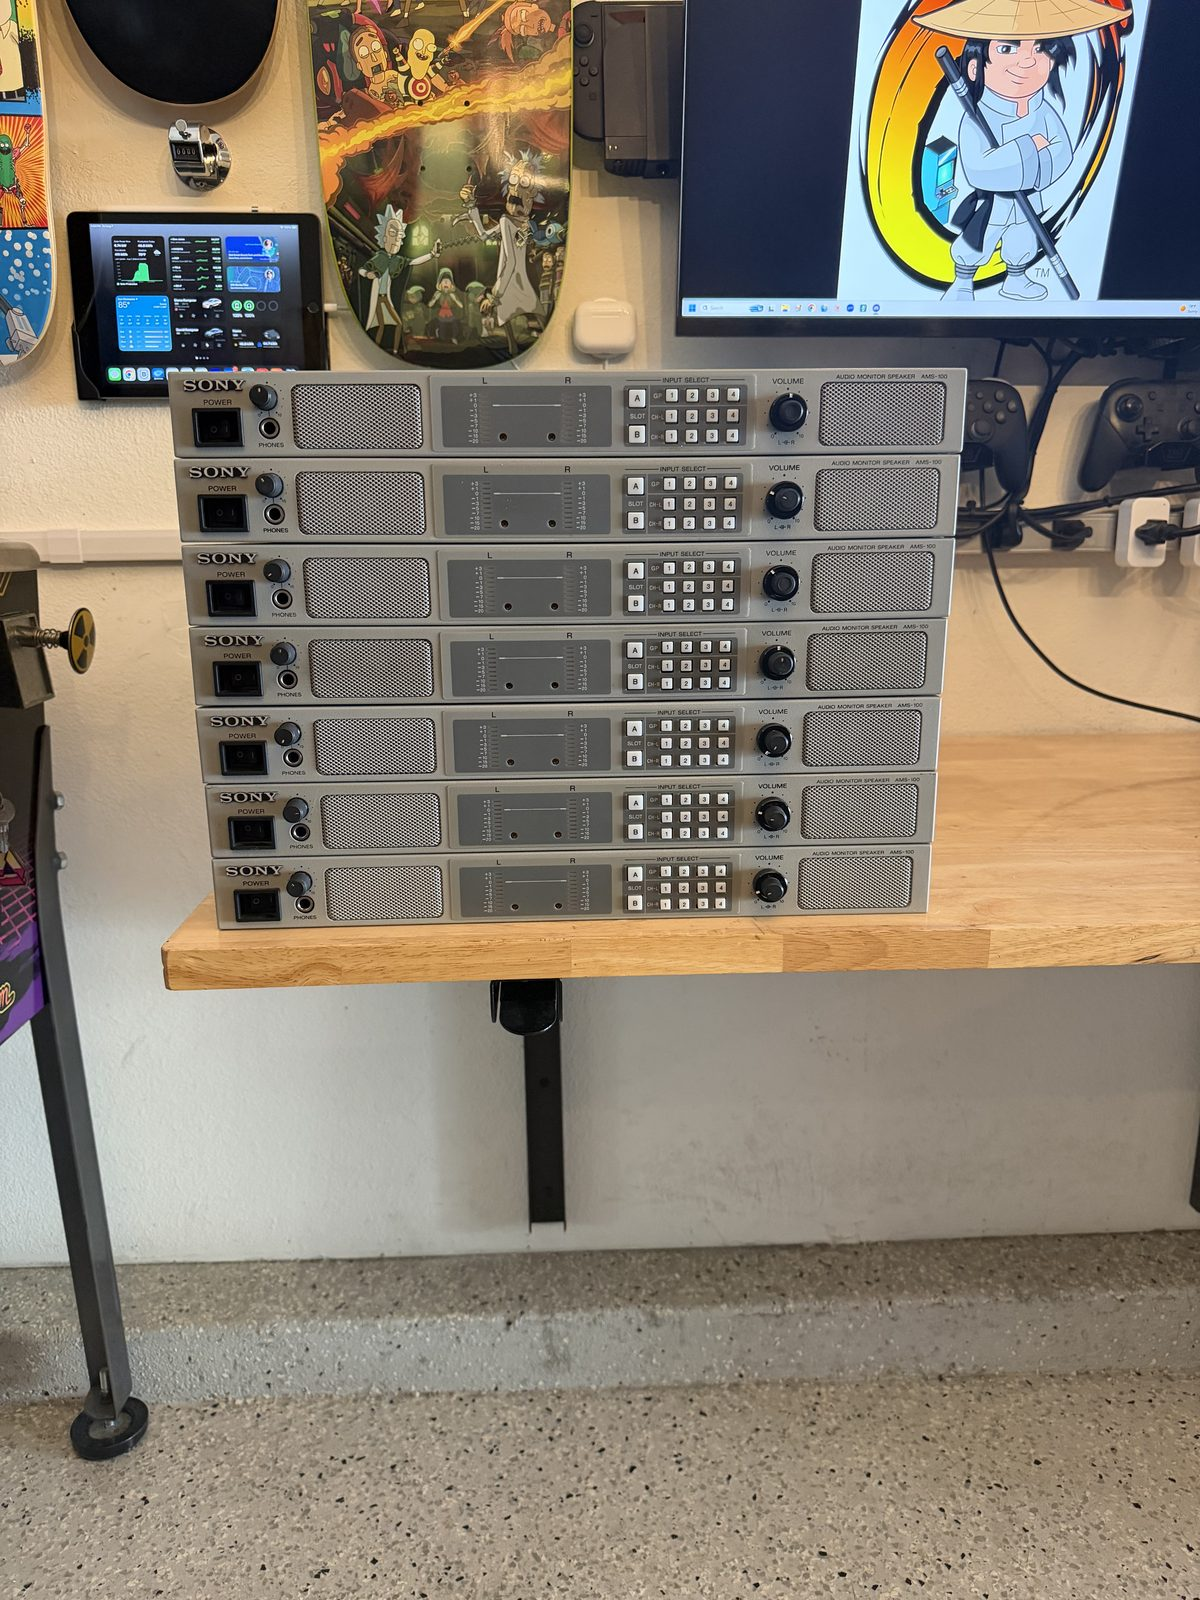
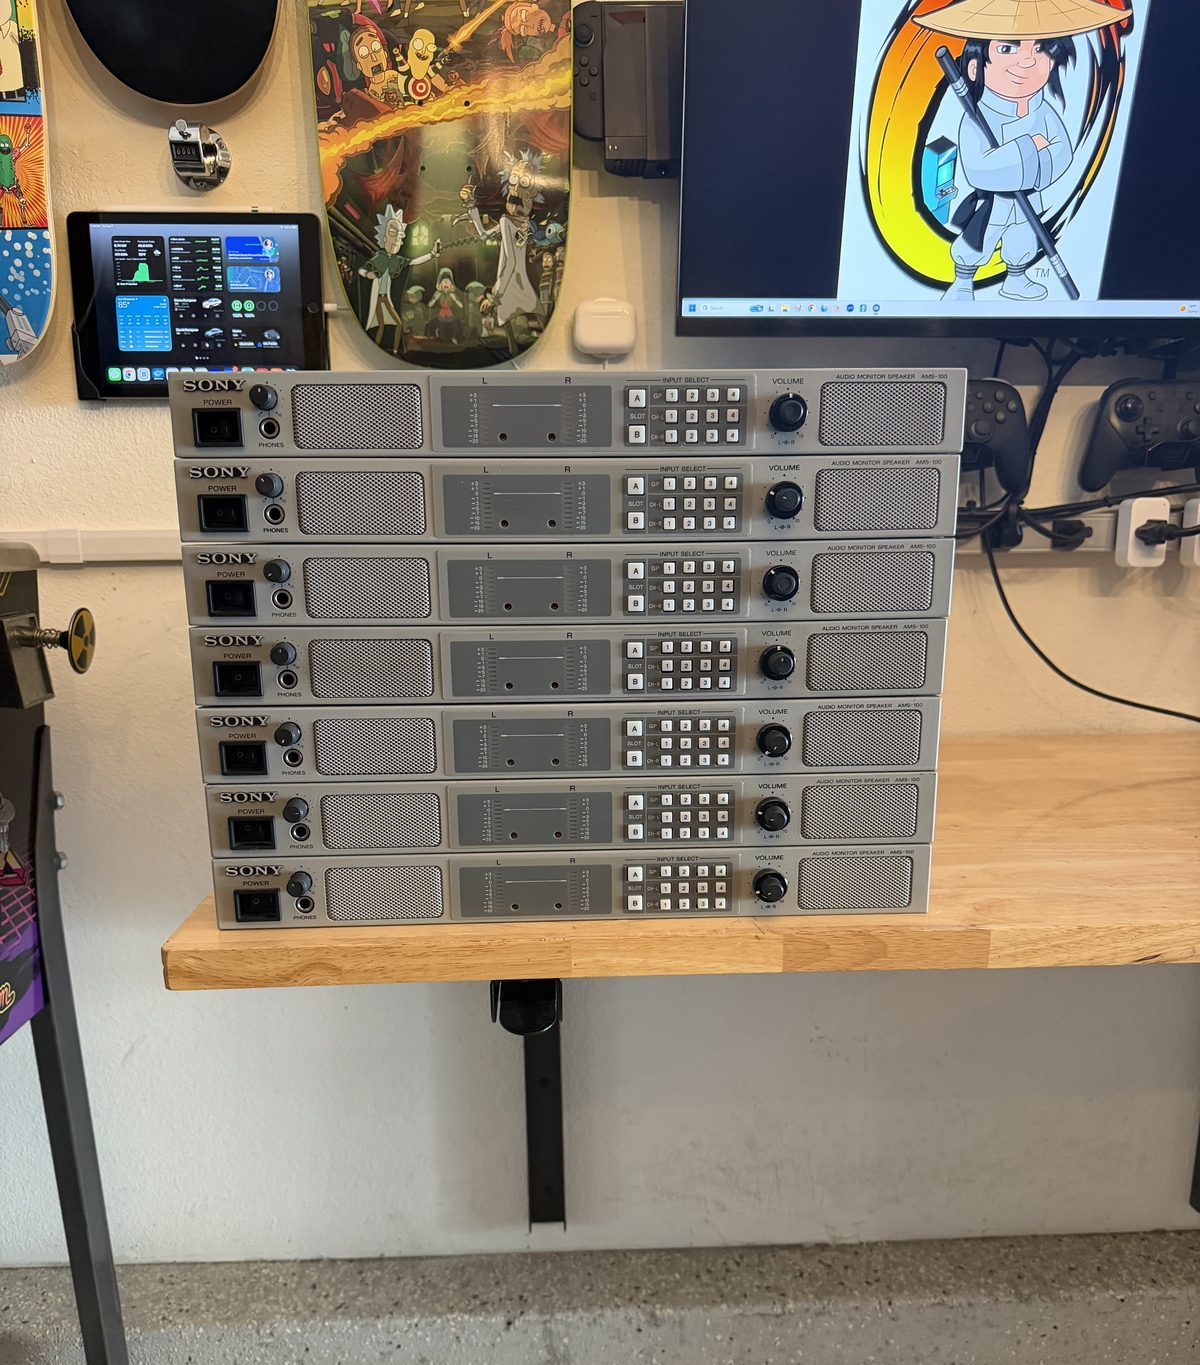
Trim wasted space off the AMS-100 lineup photo so it aligns with the BVM shot; fleet count is fifteen, sitewide

diff --git a/index.html b/index.html
@@ -43,7 +43,7 @@
   <a href="games.html#pinball"><b>THE PINBALL ROW:</b> Indiana Jones: The Pinball Adventure · Total Nuclear Annihilation · Ghostbusters Premium · Rick and Morty Blood Sucker Edition — four pins, all on free play</a> &nbsp;◆&nbsp;
   <a href="forsale.html"><b>FOR SALE:</b> BVM-D9H5J · Magical Chase (PCE Works repro) · Nintendo marquees · EarthBound guide · more</a> &nbsp;◆&nbsp;
   <a href="projects.html"><b>ON THE BENCH:</b> Williams Indiana Jones cold-boot chase</a> &nbsp;◆&nbsp;
-  <a href="monitors.html"><b>THE MONITOR FLEET:</b> 13 Sony professional monitors, PVM · BVM · LMD</a> &nbsp;◆&nbsp;
+  <a href="monitors.html"><b>THE MONITOR FLEET:</b> 15 Sony professional monitors, PVM · BVM · LMD</a> &nbsp;◆&nbsp;
   <a href="stories.html"><b>NEW STORIES:</b> The Red Tent · PVM vs. BVM · The Mini Cute · Trinitron Fleet Vol. 1</a> &nbsp;◆&nbsp;
 </span></div>
 
@@ -111,7 +111,7 @@ document.addEventListener('DOMContentLoaded', function(){
       <a class="card linked" href="monitors.html">
         <div class="sub">The Monitor Fleet</div>
         <h3>Sony PVM · BVM · LMD</h3>
-        <p>A working museum of Sony professional video — thirteen units across nine models, documented in the Trinitron Fleet magazine.</p>
+        <p>A working museum of Sony professional video — fifteen units across nine models, documented in the Trinitron Fleet magazine.</p>
       </a>
       <a class="card linked" href="gallery.html">
         <div class="sub">Gallery</div>

diff --git a/pvm-vs-bvm.html b/pvm-vs-bvm.html
@@ -4,7 +4,7 @@
 <meta charset="UTF-8">
 <meta name="viewport" content="width=device-width,initial-scale=1.0">
 <title>PVM vs. BVM — Orlandu's Arcade</title>
-<meta name="description" content="Why the best screens for retro games were never sold to gamers: Sony's PVM and BVM professional monitors explained, from a fleet of thirteen.">
+<meta name="description" content="Why the best screens for retro games were never sold to gamers: Sony's PVM and BVM professional monitors explained, from a fleet of fifteen.">
 <link rel="icon" type="image/png" sizes="32x32" href="assets/favicon-32.png">
 <link rel="icon" type="image/png" sizes="192x192" href="assets/favicon-192.png">
 <link rel="preconnect" href="https://fonts.googleapis.com">
@@ -14,7 +14,7 @@
 <meta property="og:type" content="article">
 <meta property="og:site_name" content="Orlandu's Arcade">
 <meta property="og:title" content="PVM vs. BVM — Orlandu's Arcade">
-<meta property="og:description" content="Why the best screens for retro games were never sold to gamers: Sony's PVM and BVM professional monitors explained, from a fleet of thirteen.">
+<meta property="og:description" content="Why the best screens for retro games were never sold to gamers: Sony's PVM and BVM professional monitors explained, from a fleet of fifteen.">
 <meta property="og:url" content="https://www.orlandu.com/pvm-vs-bvm.html">
 <meta property="og:image" content="https://www.orlandu.com/media/og/og-monitors.jpg">
 <meta property="og:image:width" content="1200">

diff --git a/monitors.html b/monitors.html
@@ -32,7 +32,7 @@
 <main>
   <div class="kicker">Sony Professional Video</div>
   <h1 class="page">The Monitor Fleet</h1>
-  <p class="lede">A working museum of Sony professional displays — broadcast BVMs, production PVMs, and the LMD generation that followed. Thirteen units across nine models, split between the garage arcade racks and the game room inside the house.</p>
+  <p class="lede">A working museum of Sony professional displays — broadcast BVMs, production PVMs, and the LMD generation that followed. Fifteen units across nine models, split between the garage arcade racks and the game room inside the house.</p>
 
   <section>
     <div class="card" style="padding:1.6rem 1.8rem">

diff --git a/stories.html b/stories.html
@@ -57,7 +57,7 @@
       <a class="card linked" href="pvm-vs-bvm.html">
         <span class="badge plan">Did You Know?</span>
         <h3>The Best Screen for Retro Games Was Never Sold to Gamers</h3>
-        <p>PVM vs. BVM: what Sony's professional monitors actually were, why RGB changes everything, and which one to buy today — answered from a fleet of thirteen.</p>
+        <p>PVM vs. BVM: what Sony's professional monitors actually were, why RGB changes everything, and which one to buy today — answered from a fleet of fifteen.</p>
         <p style="margin-top:.8rem;color:var(--cyan)">Read the story →</p>
       </a>
       <a class="card linked" href="mini-cute.html">
